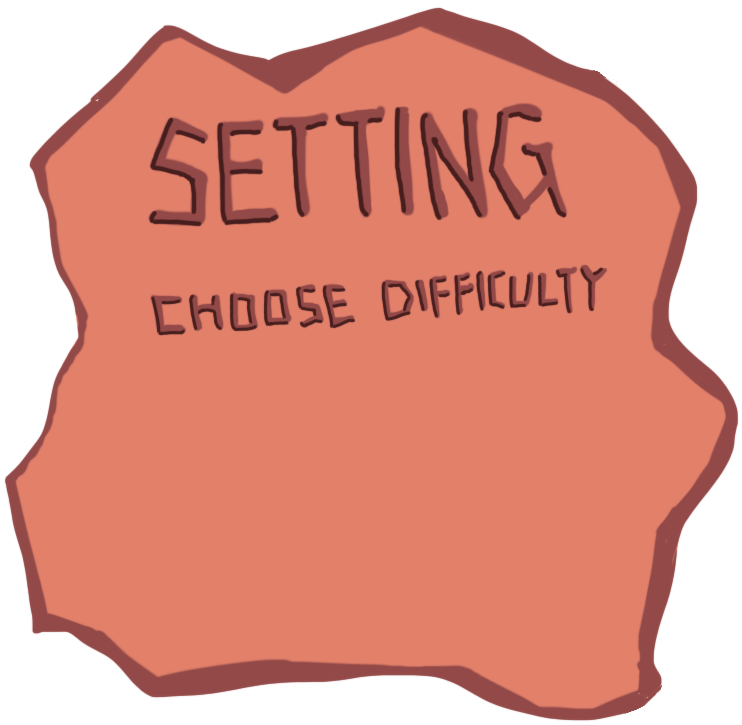
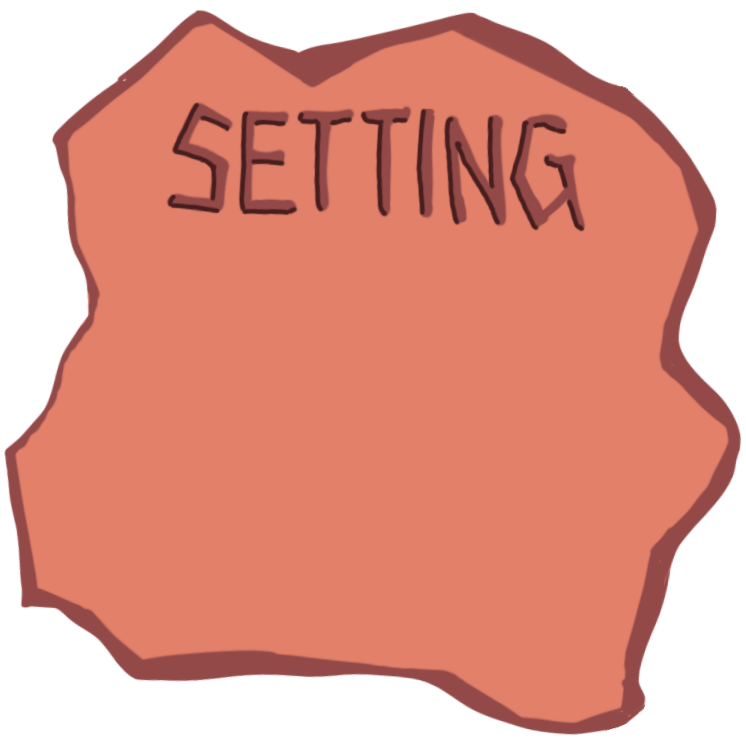
Improved usability

diff --git a/sketch.js b/sketch.js
@@ -73,6 +73,7 @@ var boxLocation;
 // for difficulty setting
 var maxZombie;
 var difficulty;
+var levelString = "EASY";
 
 // for pre-game & game start
 var start = false;
@@ -259,31 +260,32 @@ function draw(){
         if(!settingMenuOpen){
           image(startImage,0,0,canvasWidth, canvasHeight);
           // start Button
+          // hovered
           if(mouseX > canvasWidth * 0.45 && mouseX < canvasWidth * 0.45 + canvasWidth * 0.2 && mouseY > canvasHeight * 0.55 && mouseY < canvasHeight * 0.55 + canvasWidth * 0.2 * 0.35){
-            push();
-            tint(255,200);
-            image(startButton, canvasWidth * 0.45, canvasHeight * 0.54, canvasWidth * 0.2, canvasWidth * 0.2 * 0.35);
-            pop();
+            image(startButton, canvasWidth * 0.45, canvasHeight * 0.55, canvasWidth * 0.2, canvasWidth * 0.2 * 0.35);
             if(!button1HoverPlayed){
               buttonHover.play();
               button1HoverPlayed = true;
             }
           }else{
+            push();
+            tint(255,240);
             image(startButton, canvasWidth * 0.45, canvasHeight * 0.55, canvasWidth * 0.2, canvasWidth * 0.2 * 0.35);
+            pop();
             button1HoverPlayed = false;
           }
           // setting button
           if(mouseX > canvasWidth * 0.68 && mouseX < canvasWidth * 0.68 + canvasWidth * 0.2 && mouseY > canvasHeight * 0.55 && mouseY < canvasHeight * 0.55 + canvasWidth * 0.2 * 0.35){
-            push();
-            tint(255,200);
-            image(settingButton, canvasWidth * 0.68, canvasHeight * 0.54, canvasWidth * 0.2, canvasWidth * 0.2 * 0.35);
-            pop();
+            image(settingButton, canvasWidth * 0.68, canvasHeight * 0.55, canvasWidth * 0.2, canvasWidth * 0.2 * 0.35);
             if(!button2HoverPlayed){
               buttonHover.play();
               button2HoverPlayed = true;
             }
           }else{
+            push();
+            tint(255,240);
             image(settingButton, canvasWidth * 0.68, canvasHeight * 0.55, canvasWidth * 0.2, canvasWidth * 0.2 * 0.35);
+            pop();
             button2HoverPlayed = false;
           }
         }
@@ -296,67 +298,71 @@ function draw(){
           push();
           image(startImage,0,0,canvasWidth, canvasHeight);
           noStroke();
-          fill(255,255,255,100);
+          fill(255,247,224,230);
           rect(0,0,canvasWidth, canvasHeight);
           pop();
 
           image(settingMenu, canvasWidth/2 - canvasWidth/4, canvasHeight/2 - canvasHeight * 0.44, canvasWidth/2, canvasHeight * 0.88);
           // back button
           if(mouseX > canvasWidth*0.18 && mouseX < canvasWidth*0.18 + canvasWidth * 0.06 && mouseY > canvasHeight/2 - canvasHeight * 0.4 && mouseY < canvasHeight/2 - canvasHeight * 0.4 + canvasWidth * 0.06){
-            push();
-            tint(255,220);
             image(backButton, canvasWidth*0.18, canvasHeight/2 - canvasHeight * 0.4, canvasWidth * 0.06, canvasWidth * 0.06);
-            pop();
             if(!button3HoverPlayed){
               buttonHover.play();
               button3HoverPlayed = true;
             }
           }else{
             button3HoverPlayed = false;
+            push();
+            tint(255,240);
             image(backButton, canvasWidth*0.18, canvasHeight/2 - canvasHeight * 0.4, canvasWidth * 0.06, canvasWidth * 0.06);
+            pop();
           }
           // easy button
           if(mouseX > canvasWidth/2 - canvasWidth * 0.16 /2 && mouseX < canvasWidth/2 - canvasWidth * 0.16 /2 + canvasWidth * 0.16 && mouseY > canvasHeight * 0.48 && mouseY < canvasHeight * 0.48 + canvasWidth * 0.2 * 0.3){
-            push();
-            tint(255,220);
             image(easy, canvasWidth/2 - canvasWidth * 0.16 /2, canvasHeight * 0.48, canvasWidth * 0.16, canvasWidth * 0.2 * 0.3);
-            pop();
             if(!button4HoverPlayed){
               buttonHover.play();
               button4HoverPlayed = true;
             }
           }else{
             button4HoverPlayed = false;
+            push();
+            tint(255,220);
             image(easy, canvasWidth/2 - canvasWidth * 0.16 /2, canvasHeight * 0.48, canvasWidth * 0.16, canvasWidth * 0.2 * 0.3);
+            pop();
           }
           // medium button
           if(mouseX > canvasWidth/2 - canvasWidth * 0.16 /2 && mouseX < canvasWidth/2 - canvasWidth * 0.16 /2 + canvasWidth * 0.16 && mouseY > canvasHeight * 0.48  + canvasWidth * 0.2 * 0.3&& mouseY < canvasHeight * 0.48 + canvasWidth * 0.2 * 0.3 + canvasWidth * 0.2 * 0.3){
-            push();
-            tint(255,220);
             image(medium, canvasWidth/2 - canvasWidth * 0.16 /2, canvasHeight * 0.48 + canvasWidth * 0.2 * 0.3, canvasWidth * 0.16, canvasWidth * 0.2 * 0.3);
-            pop();
             if(!button5HoverPlayed){
               buttonHover.play();
               button5HoverPlayed = true;
             }
           }else{
             button5HoverPlayed = false;
+            push();
+            tint(255,220);
             image(medium, canvasWidth/2 - canvasWidth * 0.16 /2, canvasHeight * 0.48 + canvasWidth * 0.2 * 0.3, canvasWidth * 0.16, canvasWidth * 0.2 * 0.3);
+            pop();
           }
           // hard button
           if(mouseX > canvasWidth/2 - canvasWidth * 0.16 /2 && mouseX < canvasWidth/2 - canvasWidth * 0.16 /2 + canvasWidth * 0.16 && mouseY > canvasHeight * 0.48  + canvasWidth * 0.2 * 0.3 * 2 && mouseY < canvasHeight * 0.48 + canvasWidth * 0.2 * 0.3 + canvasWidth * 0.2 * 0.3 * 2){
-            push();
-            tint(255,220);
             image(hard, canvasWidth/2 - canvasWidth * 0.16 /2, canvasHeight * 0.48 + canvasWidth * 0.2 * 0.3 * 2, canvasWidth * 0.16, canvasWidth * 0.2 * 0.3);
-            pop();
             if(!button6HoverPlayed){
               buttonHover.play();
               button6HoverPlayed = true;
             }
           }else{
             button6HoverPlayed = false;
+            push();
+            tint(255,220);
             image(hard, canvasWidth/2 - canvasWidth * 0.16 /2, canvasHeight * 0.48 + canvasWidth * 0.2 * 0.3 * 2, canvasWidth * 0.16, canvasWidth * 0.2 * 0.3);
+            pop();
           }
+          textFont(myFont,32);
+          fill(52,19,18);
+          text("CURRENT LEVEL\n" + levelString, canvasWidth * 0.5, canvasHeight * 0.4);
+          textAlign(CENTER);
         }
       }
 
@@ -542,16 +548,18 @@ function draw(){
         text("Your Final Score is: " + score, canvasWidth * 0.54, canvasHeight * 0.5);
         // text(score, canvasWidth * 0.54, canvasHeight * 0.55);
         if(mouseX > canvasWidth * 0.54 && mouseX < canvasWidth * 0.63 + canvasWidth * 0.2 && mouseY > canvasHeight * 0.58 && mouseY < canvasHeight * 0.58 + canvasWidth * 0.2 * 0.35){
-          push();
-          tint(255,200);
-          image(endButton, canvasWidth * 0.54, canvasHeight * 0.57, canvasWidth * 0.2, canvasWidth * 0.2 * 0.35);
-          pop();
+
+          image(endButton, canvasWidth * 0.54, canvasHeight * 0.58, canvasWidth * 0.2, canvasWidth * 0.2 * 0.35);
+
           if(!buttonHoverPlayed){
             buttonHover.play();
             buttonHoverPlayed = true;
           }
         }else{
+          push();
+          tint(255,240);
           image(endButton, canvasWidth * 0.54, canvasHeight * 0.58, canvasWidth * 0.2, canvasWidth * 0.2 * 0.35);
+          pop();
           buttonHoverPlayed = false;
         }
       }
@@ -945,8 +953,8 @@ function parseResult(){
 }
 
 function updateDifficulty(){
-  if((score - preScore) > 20){
-    maxZombie += 5;
+  if(score > 100 & (score - preScore) > 10){
+    maxZombie += 1;
     if(maxZombie >= difficulty){
       maxZombie = difficulty;
     }
@@ -1028,19 +1036,22 @@ function mousePressed(){
       }
       // easy button
       if(mouseX > canvasWidth/2 - canvasWidth * 0.16 /2 && mouseX < canvasWidth/2 - canvasWidth * 0.16 /2 + canvasWidth * 0.16 && mouseY > canvasHeight * 0.48 && mouseY < canvasHeight * 0.48 + canvasWidth * 0.2 * 0.3){
-        difficulty = 10;
+        difficulty = 15;
+        levelString = "EASY";
         buttonClick.play();
         image(easy, canvasWidth/2 - canvasWidth * 0.16 /2, canvasHeight * 0.48, canvasWidth * 0.16, canvasWidth * 0.2 * 0.3);
       }
       // medium button
       if(mouseX > canvasWidth/2 - canvasWidth * 0.16 /2 && mouseX < canvasWidth/2 - canvasWidth * 0.16 /2 + canvasWidth * 0.16 && mouseY > canvasHeight * 0.48  + canvasWidth * 0.2 * 0.3&& mouseY < canvasHeight * 0.48 + canvasWidth * 0.2 * 0.3 + canvasWidth * 0.2 * 0.3){
-        difficulty = 30;
+        difficulty = 25;
+        levelString = "MEDIUM";
         buttonClick.play();
         image(medium, canvasWidth/2 - canvasWidth * 0.16 /2, canvasHeight * 0.48 + canvasWidth * 0.2 * 0.3, canvasWidth * 0.16, canvasWidth * 0.2 * 0.3);
       }
       // hard button
       if(mouseX > canvasWidth/2 - canvasWidth * 0.16 /2 && mouseX < canvasWidth/2 - canvasWidth * 0.16 /2 + canvasWidth * 0.16 && mouseY > canvasHeight * 0.48  + canvasWidth * 0.2 * 0.3 * 2 && mouseY < canvasHeight * 0.48 + canvasWidth * 0.2 * 0.3 + canvasWidth * 0.2 * 0.3 * 2){
-        difficulty = 50;
+        difficulty = 40;
+        levelString = "HARD";
         buttonClick.play();
         image(hard, canvasWidth/2 - canvasWidth * 0.16 /2, canvasHeight * 0.48 + canvasWidth * 0.2 * 0.3 * 2, canvasWidth * 0.16, canvasWidth * 0.2 * 0.3);
       }
@@ -1092,8 +1103,8 @@ function reset(){
   // preset of score
   score = 0;
   preScore = 0;
-  maxZombie = 5;
-  difficulty = 10;
+  maxZombie = 6;
+  difficulty = 1;
   scareSoundPower = 1;
 
   boxExist = false;

diff --git a/index.html b/index.html
@@ -28,6 +28,11 @@
 			z-index: -1;
 		}
 
+		#myCanvas{
+
+			z-index: -1;
+		}
+
 		canvas{
 			z-index: 1;
 		}
@@ -97,6 +102,19 @@
 			bottom: 20px;
 		}
 
+		.game_Button{
+			position: absolute;
+			width: auto;
+			height: auto;
+			background: none;
+			border: none;
+		}
+
+		#start{
+			top:40vw;
+			left:45vw;
+		}
+
 	</style>
 </head>
 
@@ -104,13 +122,16 @@
 <body>
 	<div id="canvasBox">
 		<p id="copyright_text">Tutorial ↑</p>
+		<!-- <button class="game_Button" id="start" onclick="startGame()"><image src="tiles/startButton.png" id="start_img"></button> -->
 	</div>
 	<div id="tutorial_container">
 		<div class="text_container">
+				<p> Close Tutorial ↓</p><br>
 				<p>Move Up-"W", Move Down-"S", Move Left-"A", Move Right-"D".</p>
 				<p>Fire-"J", Long press "J" for automatic fire.</p>
 				<p>Swtich the Weapon: Handgun-"1", Rifle-"2", RPG-"3".</p>
 				<p>Lootbox will appear randomly on the map, pick it up for reinforcement.</p>
+				<p>If you can't handle the zombies, try shouting out "I QUIT!" (Microphone access required).</p>
 		</div>
 		<div class="text_container">
 				<p >&copy Jerry Wang 2018. All Rights Reserved.</p>
